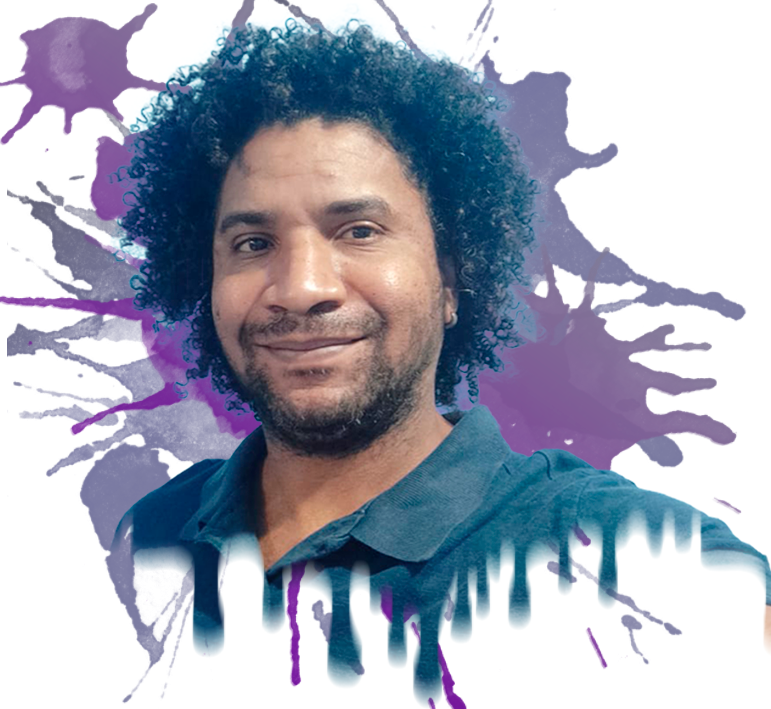
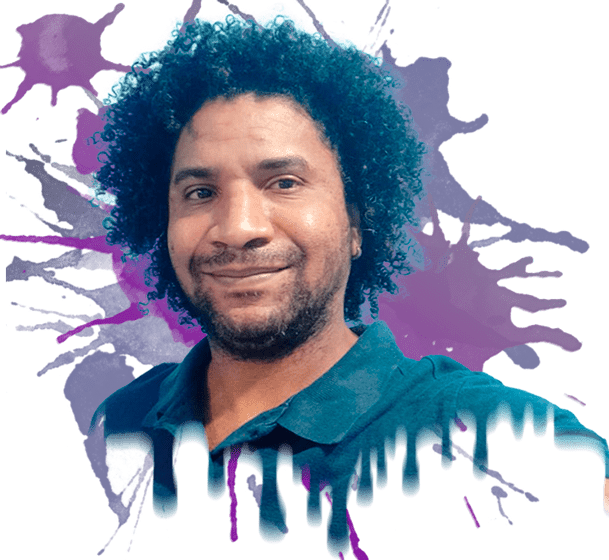
compressão de imagens e criação page 404

diff --git a/src/Pages/NotFound/index.tsx b/src/Pages/NotFound/index.tsx
@@ -1,0 +1,36 @@
+import React from "react";
+
+const styles = {
+  container: {
+    display: "flex",
+    "flex-direction": "column",
+    "justify-content": "center",
+  },
+
+  image: {
+    height: "455px",
+  },
+
+  text: {
+    fontSize: "10px",
+    "text-align": "center",
+    color: "var(--cyan)",
+  },
+};
+
+const NotFound = () => {
+  return (
+    <div style={styles.container}>
+      <img
+        src="/assets/images/404.svg"
+        alt="page not found"
+        style={styles.image}
+      />
+      <a style={styles.text} href="https://storyset.com/web">
+        Web illustrations by Storyset
+      </a>
+    </div>
+  );
+};
+
+export default NotFound;

diff --git a/src/routes.jsx b/src/routes.jsx
@@ -5,6 +5,7 @@ import About from "./Pages/About/index";
 import Skills from "./Pages/Skills/index";
 import Projects from "./Pages/Projects/index";
 import { AnimatePresence } from "framer-motion";
+import NotFound from "./Pages/NotFound";
 
 function Routes() {
   const location = useLocation();
@@ -17,6 +18,7 @@ function Routes() {
         <Route path="sobre" element={<About />} />
         <Route path="skills" element={<Skills />} />
         <Route path="projetos" element={<Projects />} />
+        <Route path="*" element={<NotFound />} />
       </Router>
     </AnimatePresence>
   );

diff --git a/src/Pages/Contact/index.tsx b/src/Pages/Contact/index.tsx
@@ -153,7 +153,14 @@ const Contact = () => {
           </form>
         </div>
         <figure>
-          <img src="/assets/images/email.png" alt="desenho de um homem" />
+          <img src="/assets/images/email.svg" alt="desenho de um homem" />
+          <a
+            href="https://storyset.com/people"
+            target={"_blank"}
+            rel="noreferrer"
+          >
+            People illustrations by Storyset
+          </a>
         </figure>
       </motion.div>
     </>

diff --git a/src/Pages/Contact/styles.scss b/src/Pages/Contact/styles.scss
@@ -121,6 +121,7 @@
 
     > figure {
       display: flex;
+      flex-direction: column;
       justify-content: center;
       align-items: center;
       > figcaption {
@@ -130,6 +131,10 @@
         display: block;
         object-fit: contain;
         height: 250px;
+      }
+      > a {
+        font-size: 10px;
+        color: var(--cyan);
       }
     }
   }

diff --git a/src/Pages/Home/index.tsx b/src/Pages/Home/index.tsx
@@ -34,7 +34,7 @@ const Home = () => {
         </h1>
 
         <div className="presentation__image-mobile">
-          <img src="/assets/images/cacio.png" alt="Cacio" />
+          <img src="/assets/images/Cacio.png" alt="Cacio" />
         </div>
 
         <h2>Desenvolvedor Web</h2>

diff --git a/src/Pages/Projects/styles.scss b/src/Pages/Projects/styles.scss
@@ -18,7 +18,7 @@
     }
 
     > p {
-      font-size: 42px;
+      font-size: 30px;
     }
 
     /*flex-wrap: wrap;
